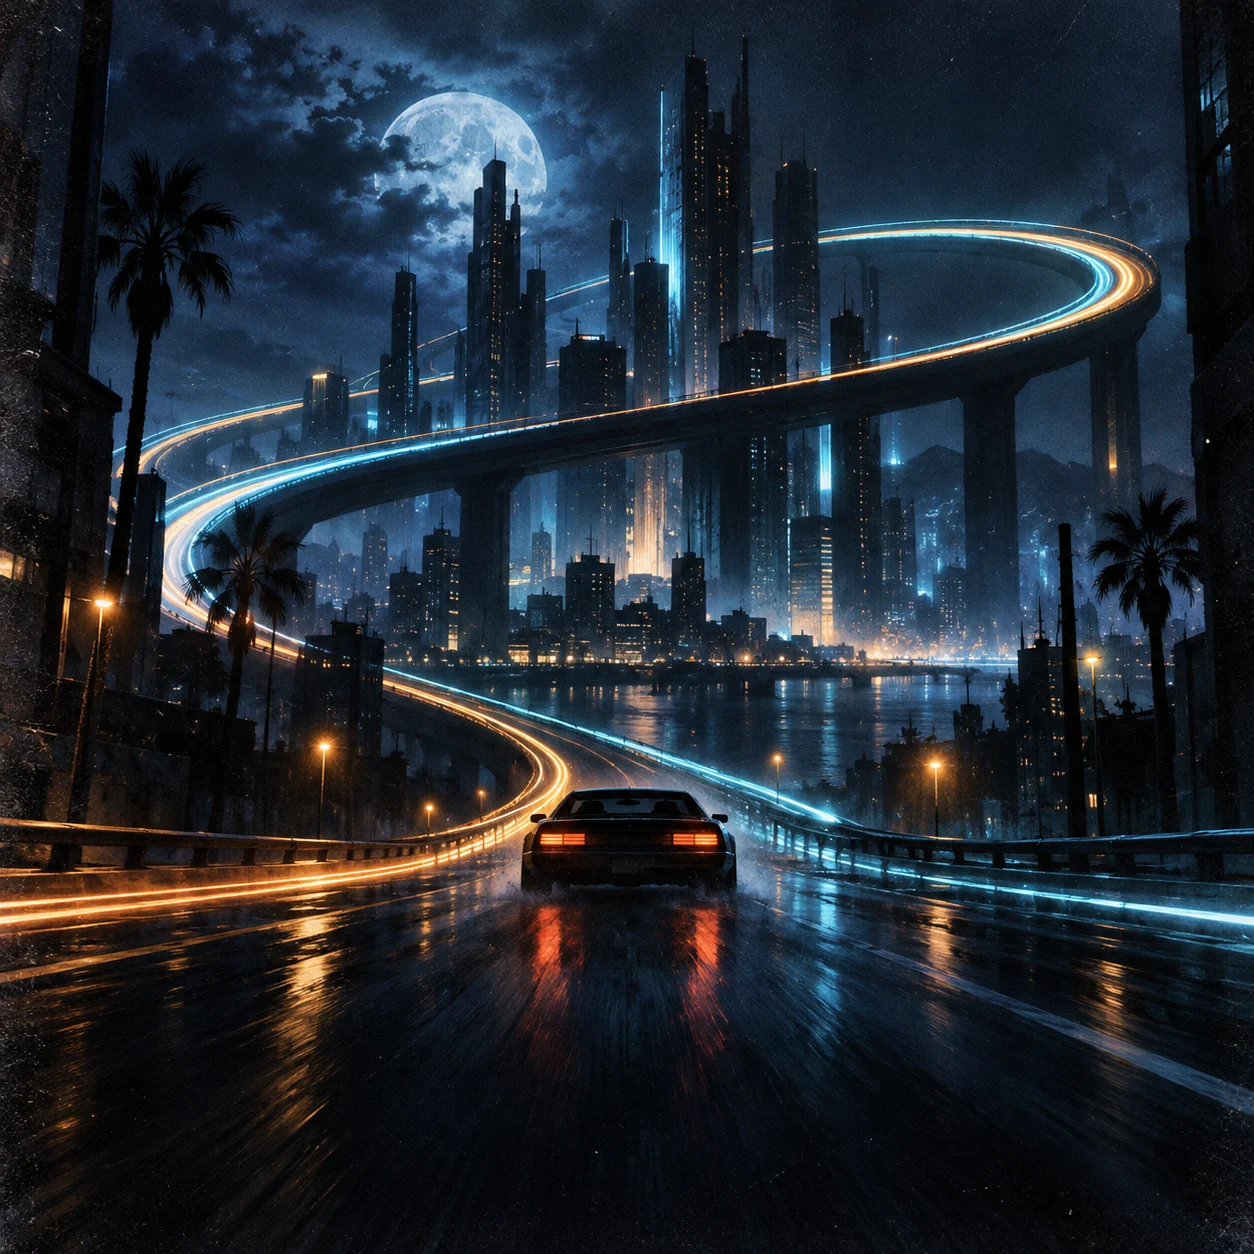
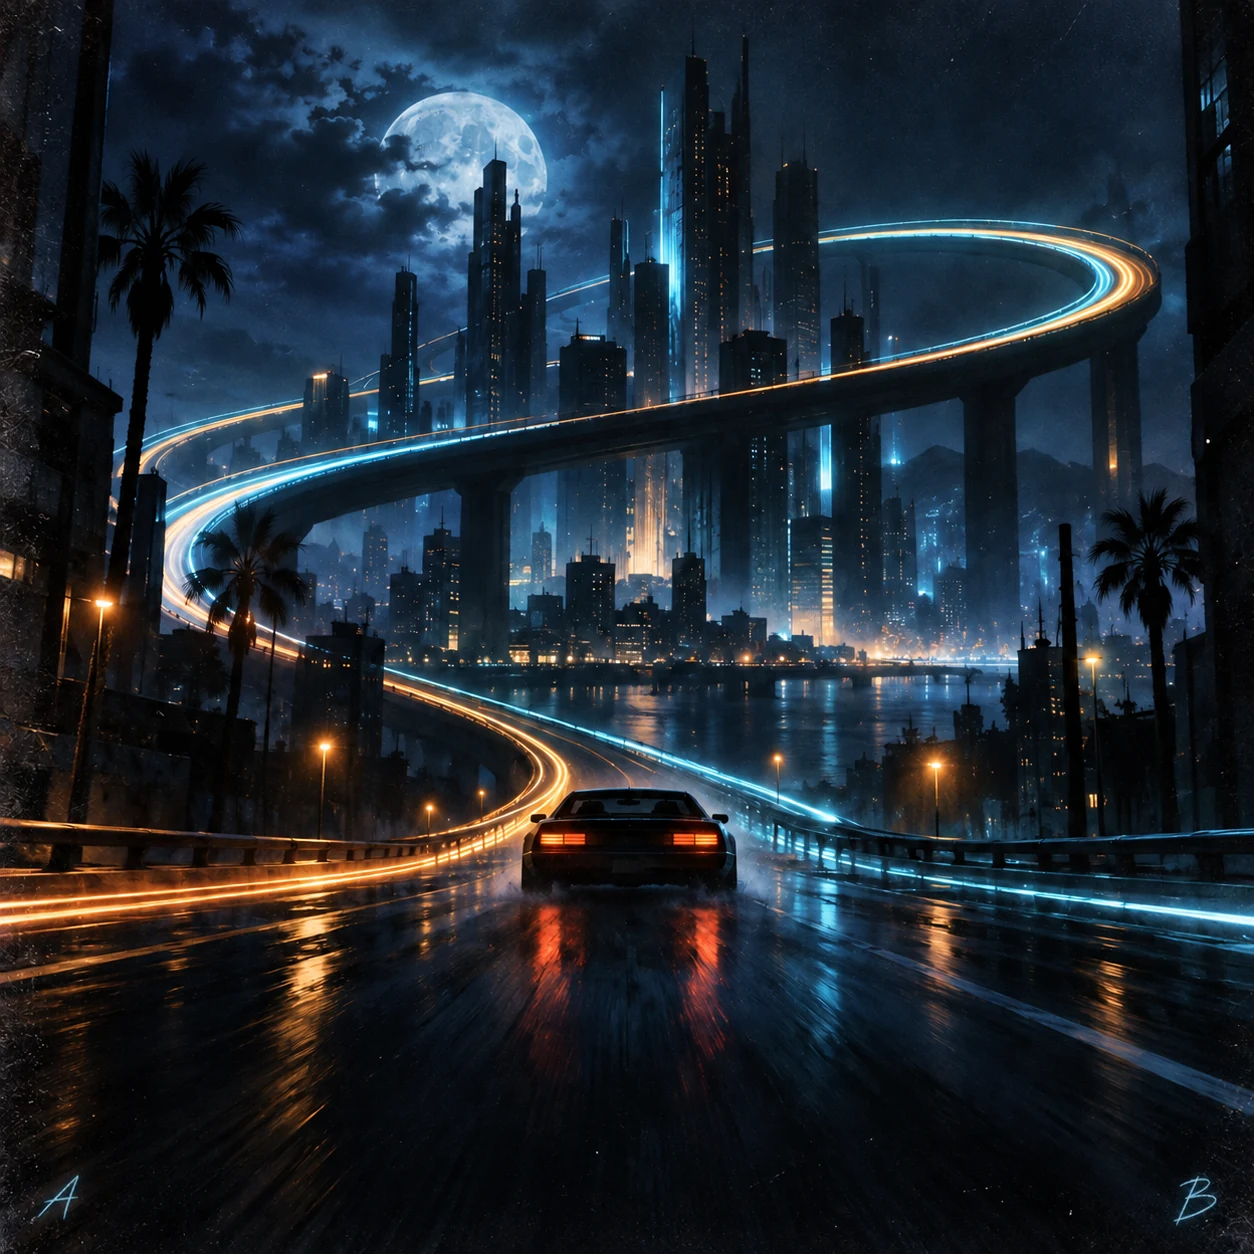
Refine mixtape covers, gallery and crossfade handoff

diff --git a/assets/mixtapes.js b/assets/mixtapes.js
@@ -8,13 +8,16 @@ import { tapeKey, tapeColors, emptyTape, validateTape, decodeTape, tapeDuration,
 import { drawInk, mountHandwriting, sideInk, canDraw } from "./tape-handwriting.js";
 import { artImage, drawClipart } from "./tape-art.js";
 import { player } from "./player.js";
+import { disableTrackLoop } from "./loop.js";
 import { currentScope } from "./page-scope.js";
 import { definePage, navigate } from "./shell.js";
 
 const main = document.querySelector("#main");
-// This one published tape has a commissioned cover while its saved snapshot stays intact.
-const midnightCircuitId = "rlug63T1hEU9";
-const midnightCircuitCover = "/assets/midnight-circuit-cover.webp";
+// Covers for these published tapes live outside their saved snapshots.
+const featuredCovers = {
+  rlug63T1hEU9: { src: "/assets/midnight-circuit-cover.webp", thumb: "/assets/midnight-circuit-cover-thumb.webp", description: "A car approaches a moonlit city on a looping illuminated road, with small A and B marks in the corners.", caption: "MIDNIGHT CIRCUIT · COVER ART" },
+  JoCDkVQUr59X: { src: "/assets/scythe-yeh-rye-cover.webp", thumb: "/assets/scythe-yeh-rye-cover-thumb.webp", description: "Pink cassette collage with Scythe's original handwriting from both sides of the tape.", caption: "YEH RYE · COVER ART" },
+};
 const escape = value => String(value ?? "").replace(/[&<>"']/g, c => ({ "&": "&amp;", "<": "&lt;", ">": "&gt;", '"': "&quot;", "'": "&#39;" })[c]);
 const safeAudio = song => {
   try { const url = new URL(song?.url, location.origin); return ["https:", "http:"].includes(url.protocol) && song?.url ? url.href : ""; }
@@ -70,8 +73,25 @@ definePage(import.meta.url, mountPage);
 async function gallery() {
   document.title = "Mixtapes · yehry3";
   main.innerHTML = `<section class="gallery-head"><div><p class="eyebrow">The listening room / Mixtapes</p><h1>Mixtapes</h1><p class="lede">Two sides, drawn by hand. Every tape here was made by a listener, and every tape is public.</p></div><a class="primary" href="/mixtapes/new" data-new-tape>New mixtape <span aria-hidden="true">+</span></a></section>
-    <section class="tape-gallery" aria-labelledby="gallery-heading"><h2 class="sr-only" id="gallery-heading">Published mixtapes</h2><ul class="tape-cards" hidden></ul><div id="gallery-state" role="status"></div><div class="actions gallery-more" hidden><button class="quiet" id="gallery-more">Show more tapes</button></div></section>`;
+    <section class="tape-gallery" aria-labelledby="gallery-heading"><div class="tape-gallery-bar"><h2 class="sr-only" id="gallery-heading">Published mixtapes</h2><div class="catalog-view-switch" role="group" aria-label="Mixtape display"><button type="button" data-tape-view="grid" aria-pressed="true" aria-controls="tape-cards"><svg viewBox="0 0 20 20" aria-hidden="true"><rect x="2" y="2" width="6" height="6" rx="1"/><rect x="12" y="2" width="6" height="6" rx="1"/><rect x="2" y="12" width="6" height="6" rx="1"/><rect x="12" y="12" width="6" height="6" rx="1"/></svg>Grid</button><button type="button" data-tape-view="list" aria-pressed="false" aria-controls="tape-cards"><svg viewBox="0 0 20 20" aria-hidden="true"><path d="M2 4H5M8 4H18M2 10H5M8 10H18M2 16H5M8 16H18"/></svg>List</button></div></div><ul class="tape-cards" id="tape-cards" hidden></ul><div id="gallery-state" role="status"></div><div class="actions gallery-more" hidden><button class="quiet" id="gallery-more">Show more tapes</button></div></section>`;
   const cards = main.querySelector(".tape-cards"), state = main.querySelector("#gallery-state"), more = main.querySelector("#gallery-more");
+  const viewKey = "yehry3:mixtape-view";
+  const applyView = value => {
+    const view = value === "list" ? "list" : "grid";
+    cards.dataset.view = view;
+    main.querySelectorAll("[data-tape-view]").forEach(button => button.setAttribute("aria-pressed", String(button.dataset.tapeView === view)));
+  };
+  try { applyView(localStorage.getItem(viewKey)); } catch { applyView("grid"); }
+  scope.on(main.querySelector(".catalog-view-switch"), "click", event => {
+    const button = event.target.closest("[data-tape-view]");
+    if (!button) return;
+    applyView(button.dataset.tapeView);
+    try { localStorage.setItem(viewKey, button.dataset.tapeView); } catch { /* The in-page choice still works. */ }
+  });
+  scope.on(window, "storage", event => {
+    if (event.key !== viewKey && event.key !== null) return;
+    try { if (event.storageArea === localStorage) applyView(event.newValue); } catch { /* Storage is optional. */ }
+  });
   let page = 0, total = 0, busy = false;
   const date = value => { const day = new Date(value); return Number.isNaN(day.getTime()) ? "" : ` · ${day.toLocaleDateString(undefined, { month: "short", day: "numeric", year: "numeric" })}`; };
   const face = (t, side) => {
@@ -80,10 +100,11 @@ async function gallery() {
   };
   const card = ({ id, tape: t, createdAt }) => {
     const count = t.a.length + t.b.length, name = escape(t.name);
-    const artwork = id === midnightCircuitId
-      ? `<span class="tape-card-cover" aria-hidden="true"><img src="${midnightCircuitCover}" alt="" width="1254" height="1254" loading="lazy"><span>Midnight Circuit</span></span>`
-      : `<span class="tape-card-body" aria-hidden="true">${face(t, "a")}${face(t, "b")}</span>`;
-    return `<li><a class="tape-card" data-card="${id}" data-color="${t.color}" href="${tapeHref(id)}" aria-label="${name}, ${count} ${count === 1 ? "track" : "tracks"}${t.authoredBy ? `, authored by ${escape(t.authoredBy)}` : ""}">${artwork}<strong>${name}</strong>${authoredByLine(t.authoredBy, escape)}<span class="small">${count} ${count === 1 ? "track" : "tracks"}${date(createdAt)}</span></a></li>`;
+    const cover = featuredCovers[id];
+    const artwork = cover
+      ? `<a class="tape-card-cover" href="${cover.src}" target="_blank" rel="noopener" aria-label="View full-size cover art for ${name}"><img src="${cover.thumb}" alt="${escape(cover.description)}" width="480" height="480" loading="lazy"></a>`
+      : `<a class="tape-card-body" href="${tapeHref(id)}" aria-label="Open ${name} mixtape">${face(t, "a")}${face(t, "b")}</a>`;
+    return `<li><div class="tape-card" data-card="${id}" data-color="${t.color}">${artwork}<span class="tape-card-info"><a href="${tapeHref(id)}"><strong>${name}</strong></a>${authoredByLine(t.authoredBy, escape)}<span class="small">${count} ${count === 1 ? "track" : "tracks"}${date(createdAt)}</span></span><a class="tape-card-play" href="${tapeHref(id)}" aria-label="Open ${name} mixtape">▶</a></div></li>`;
   };
   async function load() {
     if (busy) return;
@@ -118,9 +139,10 @@ async function gallery() {
 }
 
 async function mount() {
-  const featuredCover = sharedId === midnightCircuitId;
+  const featuredCover = featuredCovers[sharedId];
+  const cassetteCover = sharedId === "rlug63T1hEU9" ? featuredCover : null;
   main.innerHTML = `<section class="tape-hero">
-      <div class="tape-intro"><p class="eyebrow"><a href="/mixtapes/">The listening room / Mixtapes</a> / ${shared ? "Shared tape" : "New"}</p>${shared ? `<h1 class="tape-name-heading">${escape(tape.name)}</h1>${authoredByLine(tape.authoredBy, escape)}<p class="lede">Made by a listener, shared with everyone.<br>Press play, or make your own version.</p>${featuredCover ? `<figure class="tape-featured-cover"><img src="${midnightCircuitCover}" alt="Midnight Circuit cover art: a car approaches a moonlit city on a looping illuminated road." width="1254" height="1254"><figcaption>MIDNIGHT CIRCUIT · COVER ART</figcaption></figure>` : ""}` : '<h1>A little more<br><em>personal.</em></h1><p class="lede">An opener. A change of pace. One last song.<br>Make someone a tape worth turning over.</p>'}
+      <div class="tape-intro"><p class="eyebrow"><a href="/mixtapes/">The listening room / Mixtapes</a> / ${shared ? "Shared tape" : "New"}</p>${shared ? `<h1 class="tape-name-heading">${escape(tape.name)}</h1>${authoredByLine(tape.authoredBy, escape)}<p class="lede">Made by a listener, shared with everyone.<br>Press play, or make your own version.</p>${featuredCover ? `<figure class="tape-featured-cover"><a href="${featuredCover.src}" target="_blank" rel="noopener" aria-label="View full-size cover art"><img src="${featuredCover.thumb}" alt="${featuredCover.description}" width="480" height="480"></a><figcaption>${featuredCover.caption} · CLICK TO ENLARGE</figcaption></figure>` : ""}` : '<h1>A little more<br><em>personal.</em></h1><p class="lede">An opener. A change of pace. One last song.<br>Make someone a tape worth turning over.</p>'}
         <p class="tape-how"><span>01 &nbsp; Pick your songs</span><span>02 &nbsp; Draw the labels</span><span>03 &nbsp; Publish it</span></p>
         <div class="actions tape-actions"><button class="primary" id="share-tape" disabled>${sharedId ? "Copy link" : "Publish mixtape"}</button>${shared ? '<button class="quiet" id="edit-tape">Make your own version</button>' : '<a class="text-link" href="#tape-picker">Find your first track ↓</a>'}<a class="text-link" href="/mixtapes/">All mixtapes</a></div>
         <p class="small" id="tape-status" role="status">${sharedId ? "Every mixtape is public. This one is in the gallery for everyone." : shared ? "This tape came from an older link. Publish it to add it to the gallery and get a short link." : "Every mixtape is public. Publishing adds yours to the gallery for everyone."}</p>
@@ -130,7 +152,7 @@ async function mount() {
         <div class="deck-brand"><span>YEHRY3 <b>/ TAPE DECK</b></span><span class="deck-indicator">STEREO</span></div>
         <div class="deck-bay"><section class="tape-sleeve" aria-label="Mixtape sleeve">
           <i class="tape-screw screw-tl" aria-hidden="true"></i><i class="tape-screw screw-tr" aria-hidden="true"></i><i class="tape-screw screw-bl" aria-hidden="true"></i><i class="tape-screw screw-br" aria-hidden="true"></i>
-          <div class="cassette-label"><div class="cassette-label-top"><span class="tiny-label" id="tape-collection-name">A PERSONAL SELECTION</span><span id="cassette-side">SIDE A</span></div><div class="cassette-face${featuredCover ? " has-featured-cover" : ""}">${featuredCover ? `<img class="cassette-cover" src="${midnightCircuitCover}" alt="" width="1254" height="1254">` : ""}<h2 id="tape-title"></h2><span class="cassette-art" id="tape-label-art" hidden></span><canvas class="cassette-ink" id="tape-label-ink" role="img" hidden></canvas></div><p id="tape-total"></p></div>
+          <div class="cassette-label"><div class="cassette-label-top"><span class="tiny-label" id="tape-collection-name">A PERSONAL SELECTION</span><span id="cassette-side">SIDE A</span></div><div class="cassette-face${cassetteCover ? " has-featured-cover" : ""}">${cassetteCover ? `<img class="cassette-cover" src="${cassetteCover.src}" alt="" width="1254" height="1254">` : ""}<h2 id="tape-title"></h2><span class="cassette-art" id="tape-label-art" hidden></span><canvas class="cassette-ink" id="tape-label-ink" role="img" hidden></canvas></div><p id="tape-total"></p></div>
           <div class="tape-window" aria-hidden="true"><span class="tape-spool"><i class="tape-reel"></i></span><span class="tape-bridge"><i></i></span><span class="tape-spool"><i class="tape-reel"></i></span></div>
           <div class="cassette-bottom" aria-hidden="true"><span>TONY C</span><span class="cassette-head"><i></i><i></i><i></i></span><span>HI-FI</span></div>
         </section></div>
@@ -368,6 +390,7 @@ async function mount() {
   async function play(key) {
     const entry = playable().find(item => item.key === key);
     if (!entry) return;
+    disableTrackLoop(player.audio);
     currentKey = key; activeSide = entry.side;
     if (loadedKey() === key) {
       // The recording is already loaded here: carry on (from the top if the tape had run out).

diff --git a/assets/mixtapes.css b/assets/mixtapes.css
@@ -144,16 +144,29 @@
 .gallery-head .lede { margin: 0; }
 .gallery-head .primary { flex-shrink: 0; }
 .tape-gallery { margin-bottom: 70px; min-height: 240px; }
+.tape-gallery-bar { display: flex; justify-content: flex-end; margin-bottom: 18px; }
 .tape-cards { display: grid; grid-template-columns: repeat(auto-fill, minmax(250px, 1fr)); gap: 30px 24px; margin: 0; padding: 0; list-style: none; }
 .tape-cards[hidden] { display: none; }
-.tape-card { display: block; height: 100%; color: inherit; text-decoration: none; }
-.tape-card-body { --tape-color: #e9aa7e; display: grid; gap: 7px; padding: 12px 12px 22px; border: 1px solid #0c1710; border-radius: 9px; background: repeating-linear-gradient(0deg, #ffffff06 0 1px, transparent 1px 4px), var(--tape-color); box-shadow: 0 4px 0 #1d2a20, 0 10px 18px #283b3022, inset 0 1px #ffffff90; transition: transform .15s ease; }
-.tape-card:hover .tape-card-body, .tape-card:focus-visible .tape-card-body { transform: translateY(-3px); }
-.tape-card-cover { position: relative; display: block; overflow: hidden; aspect-ratio: 1; border-radius: 8px; background: #101b2b; box-shadow: 0 4px 0 #1d2a20, 0 10px 18px #283b3022; transition: transform .15s ease; }
-.tape-card:hover .tape-card-cover, .tape-card:focus-visible .tape-card-cover { transform: translateY(-3px); }
+.tape-card { display: grid; grid-template-columns: minmax(0, 1fr) 40px; align-content: start; height: 100%; color: inherit; text-decoration: none; }
+.tape-card-body { --tape-color: #e9aa7e; grid-column: 1 / -1; box-sizing: border-box; aspect-ratio: 1; display: grid; align-content: center; gap: 7px; padding: 12px; border: 1px solid #0c1710; border-radius: 9px; background: repeating-linear-gradient(0deg, #ffffff06 0 1px, transparent 1px 4px), var(--tape-color); box-shadow: 0 4px 0 #1d2a20, 0 10px 18px #283b3022, inset 0 1px #ffffff90; transition: transform .15s ease; }
+.tape-card:hover .tape-card-body, .tape-card:focus-within .tape-card-body { transform: translateY(-3px); }
+.tape-card-cover { grid-column: 1 / -1; position: relative; display: block; overflow: hidden; aspect-ratio: 1; border-radius: 8px; background: #101b2b; box-shadow: 0 4px 0 #1d2a20, 0 10px 18px #283b3022; transition: transform .15s ease; }
+.tape-card:hover .tape-card-cover, .tape-card:focus-within .tape-card-cover { transform: translateY(-3px); }
 .tape-card-cover img { display: block; width: 100%; height: 100%; object-fit: cover; }
-.tape-card-cover::after { content: ""; position: absolute; inset: 50% 0 0; background: linear-gradient(transparent, #06111ddd); }
-.tape-card-cover span { position: absolute; z-index: 1; right: 14px; bottom: 13px; left: 14px; color: #f4efdb; font: italic 600 clamp(1.3rem, 7vw, 2rem) "Playfair Display", Georgia, serif; line-height: 1.05; text-shadow: 0 2px 6px #000b; }
+.tape-card-info { min-width: 0; }
+.tape-card-info a { color: inherit; text-decoration: none; }
+.tape-card-info a:hover, .tape-card-info a:focus-visible { text-decoration: underline; text-underline-offset: 3px; }
+.tape-card-play { display: grid; place-items: center; justify-self: end; width: 34px; height: 34px; margin-top: 12px; border: 1px solid var(--line); border-radius: 50%; color: var(--ink); background: #f4efdb; font-size: .8rem; text-decoration: none; padding-left: 2px; box-sizing: border-box; transition: background .15s ease, transform .15s ease; }
+.tape-card:hover .tape-card-play, .tape-card:focus-within .tape-card-play { background: #d9ebc9; transform: scale(1.06); }
+.tape-cards[data-view="list"] { grid-template-columns: 1fr; gap: 10px; }
+.tape-cards[data-view="list"] .tape-card { grid-template-columns: 84px minmax(0, 1fr) 40px; align-items: center; gap: 14px; min-height: 84px; padding: 10px; border: 1px solid var(--line); border-radius: 10px; }
+.tape-cards[data-view="list"] .tape-card-cover, .tape-cards[data-view="list"] .tape-card-body { grid-column: auto; width: 84px; height: 84px; aspect-ratio: 1; }
+.tape-cards[data-view="list"] .tape-card-body { gap: 3px; padding: 5px; }
+.tape-cards[data-view="list"] .tape-card-side { min-height: 30px; padding: 2px 4px; gap: 3px; }
+.tape-cards[data-view="list"] .tape-card-side b { width: 14px; height: 18px; font-size: .55rem; }
+.tape-cards[data-view="list"] .tape-card-side em { font-size: .7rem; }
+.tape-cards[data-view="list"] .tape-card strong { margin-top: 0; }
+.tape-cards[data-view="list"] .tape-card-play { margin-top: 0; }
 .tape-card[data-color="green"] .tape-card-body { --tape-color: #b7c792; }
 .tape-card[data-color="pink"] .tape-card-body { --tape-color: #e4b0c0; }
 .tape-card[data-color="blue"] .tape-card-body { --tape-color: #a9c6d7; }
@@ -189,6 +202,7 @@
 .tape-label-editor h4 { margin: 0 0 10px; font-size: .82rem; }
 @media (max-width: 800px) { .gallery-head { flex-direction: column; align-items: flex-start; padding-top: 30px; } .gallery-head h1 { font-size: 3.4rem; } }
 @media (max-width: 520px) { .tape-cards { grid-template-columns: 1fr; } .label-editors-head { flex-direction: column; } .tape-name-heading { font-size: 2.3rem; } }
+@media (max-width: 520px) { .tape-cards[data-view="list"] .tape-card { grid-template-columns: 64px minmax(0, 1fr) 34px; gap: 10px; min-height: 64px; } .tape-cards[data-view="list"] .tape-card-cover, .tape-cards[data-view="list"] .tape-card-body { width: 64px; height: 64px; } }
 /* Clipart is a wide picture that fills the label rectangle; handwriting, when there is any, is written over it. */
 .tape-card-side.has-art { position: relative; min-height: 0; padding: 0; overflow: hidden; aspect-ratio: 1000 / 240; }
 .tape-card-side.has-art b { position: relative; z-index: 1; margin-left: 6px; background: #f4efdb; }

diff --git a/assets/player.js b/assets/player.js
@@ -42,6 +42,27 @@ function fadeOverlap(state) {
   state.frame = requestAnimationFrame(() => fadeOverlap(state));
 }
 
+function waitForHandoffReady(state, mine) {
+  if (audio.readyState >= 3 && !audio.seeking) return Promise.resolve(true);
+  return new Promise(resolve => {
+    const done = () => {
+      if ((audio.readyState < 3 || audio.seeking) && !audio.error && mine === request && overlap === state) return;
+      cleanup();
+      resolve(audio.readyState >= 3 && !audio.seeking && !audio.error);
+    };
+    const cleanup = () => {
+      clearTimeout(timer);
+      audio.removeEventListener("canplay", done);
+      audio.removeEventListener("seeked", done);
+      audio.removeEventListener("error", done);
+    };
+    const timer = setTimeout(() => { cleanup(); resolve(false); }, 4000);
+    audio.addEventListener("canplay", done);
+    audio.addEventListener("seeked", done);
+    audio.addEventListener("error", done);
+  });
+}
+
 async function beginOverlap() {
   if (overlap || !crossfadeSeconds || audio.loop || index >= queue.length - 1 || audio.paused || !Number.isFinite(audio.duration)) return;
   const remaining = audio.duration - audio.currentTime;
@@ -95,6 +116,23 @@ async function finishOverlap() {
   try {
     await audio.play();
     if (mine !== request || overlap !== state) return;
+    if (!await waitForHandoffReady(state, mine)) {
+      if (mine !== request || overlap !== state) return;
+      throw new Error("Crossfade handoff did not buffer");
+    }
+    // Loading and seeking the persistent player takes time. Match the deck that
+    // stayed audible now, so the handoff does not replay that slice of the song.
+    for (let attempt = 0; attempt < 3; attempt++) {
+      if (mine !== request || overlap !== state) return;
+      const drift = state.incoming.currentTime - audio.currentTime;
+      if (Math.abs(drift) < 0.08) break;
+      try { audio.currentTime = state.incoming.currentTime + 0.04; } catch { break; }
+      if (!await waitForHandoffReady(state, mine)) {
+        if (mine !== request || overlap !== state) return;
+        throw new Error("Crossfade handoff did not seek");
+      }
+    }
+    if (mine !== request || overlap !== state) return;
     const started = performance.now();
     const handoff = () => {
       if (overlap !== state) return;
@@ -107,7 +145,7 @@ async function finishOverlap() {
     handoff();
   } catch {
     if (overlap === state) stopOverlap();
-    emit("error", { kind: "blocked", song: state.target.song });
+    if (mine === request) emit("error", { kind: "blocked", song: state.target.song });
   }
 }
 

diff --git a/assets/loop.js b/assets/loop.js
@@ -7,6 +7,12 @@ function saved() {
   try { return localStorage.getItem(key) === "true"; } catch { return false; }
 }
 
+export function disableTrackLoop(audio) {
+  if (audio) audio.loop = false;
+  try { localStorage.setItem(key, "false"); } catch { /* The active player still advances. */ }
+  dispatchEvent(new CustomEvent("yehry3:loop", { detail: { from: null, looping: false } }));
+}
+
 // Returns a reusable control. Pages that rebuild their player call attach()
 // with the replacement audio element instead of mounting a second toggle.
 export function mountLoopToggle({ label = "Loop", className = "quiet loop-toggle" } = {}) {

diff --git a/mixtapes/index.html b/mixtapes/index.html
@@ -8,6 +8,7 @@
     <meta name="robots" content="noindex,nofollow,noarchive" />
     <meta name="theme-color" content="#283b30" />
     <link rel="stylesheet" href="/assets/site.css" />
+    <link rel="stylesheet" href="/assets/catalog-view.css" />
     <link rel="stylesheet" href="/assets/mixtapes.css" />
     <script type="module" src="/assets/mixtapes.js"></script>
   </head>
